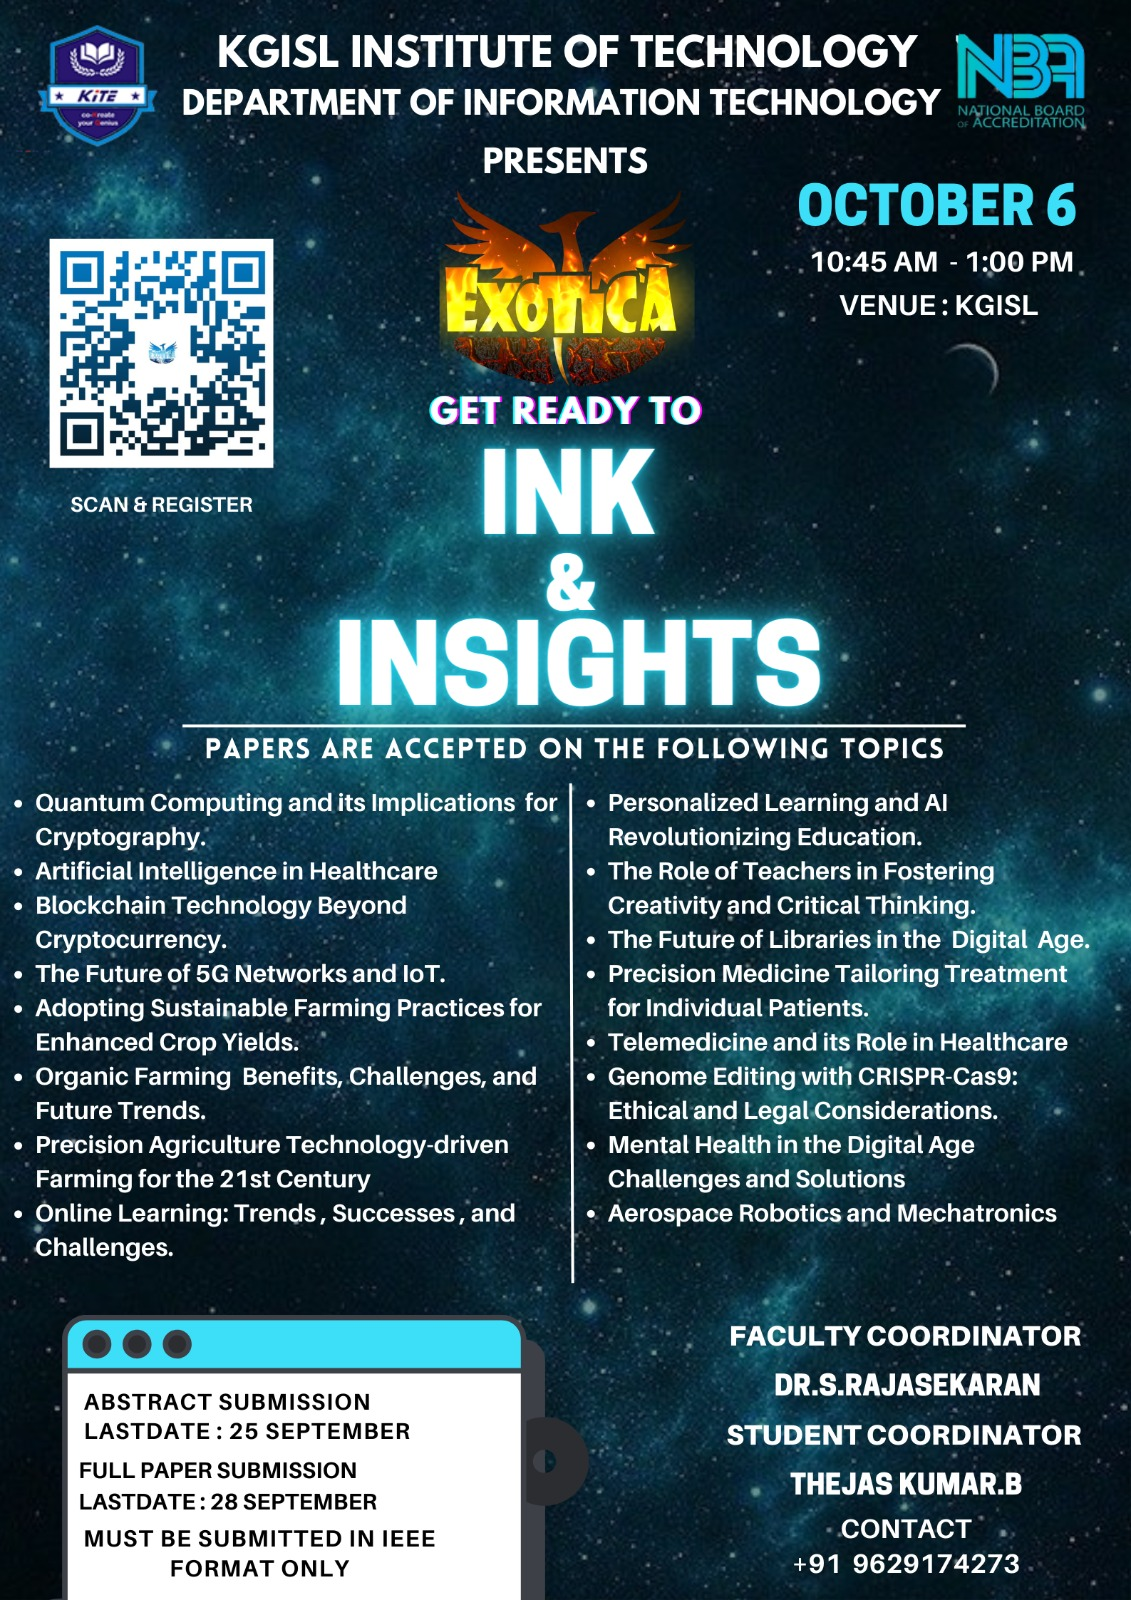
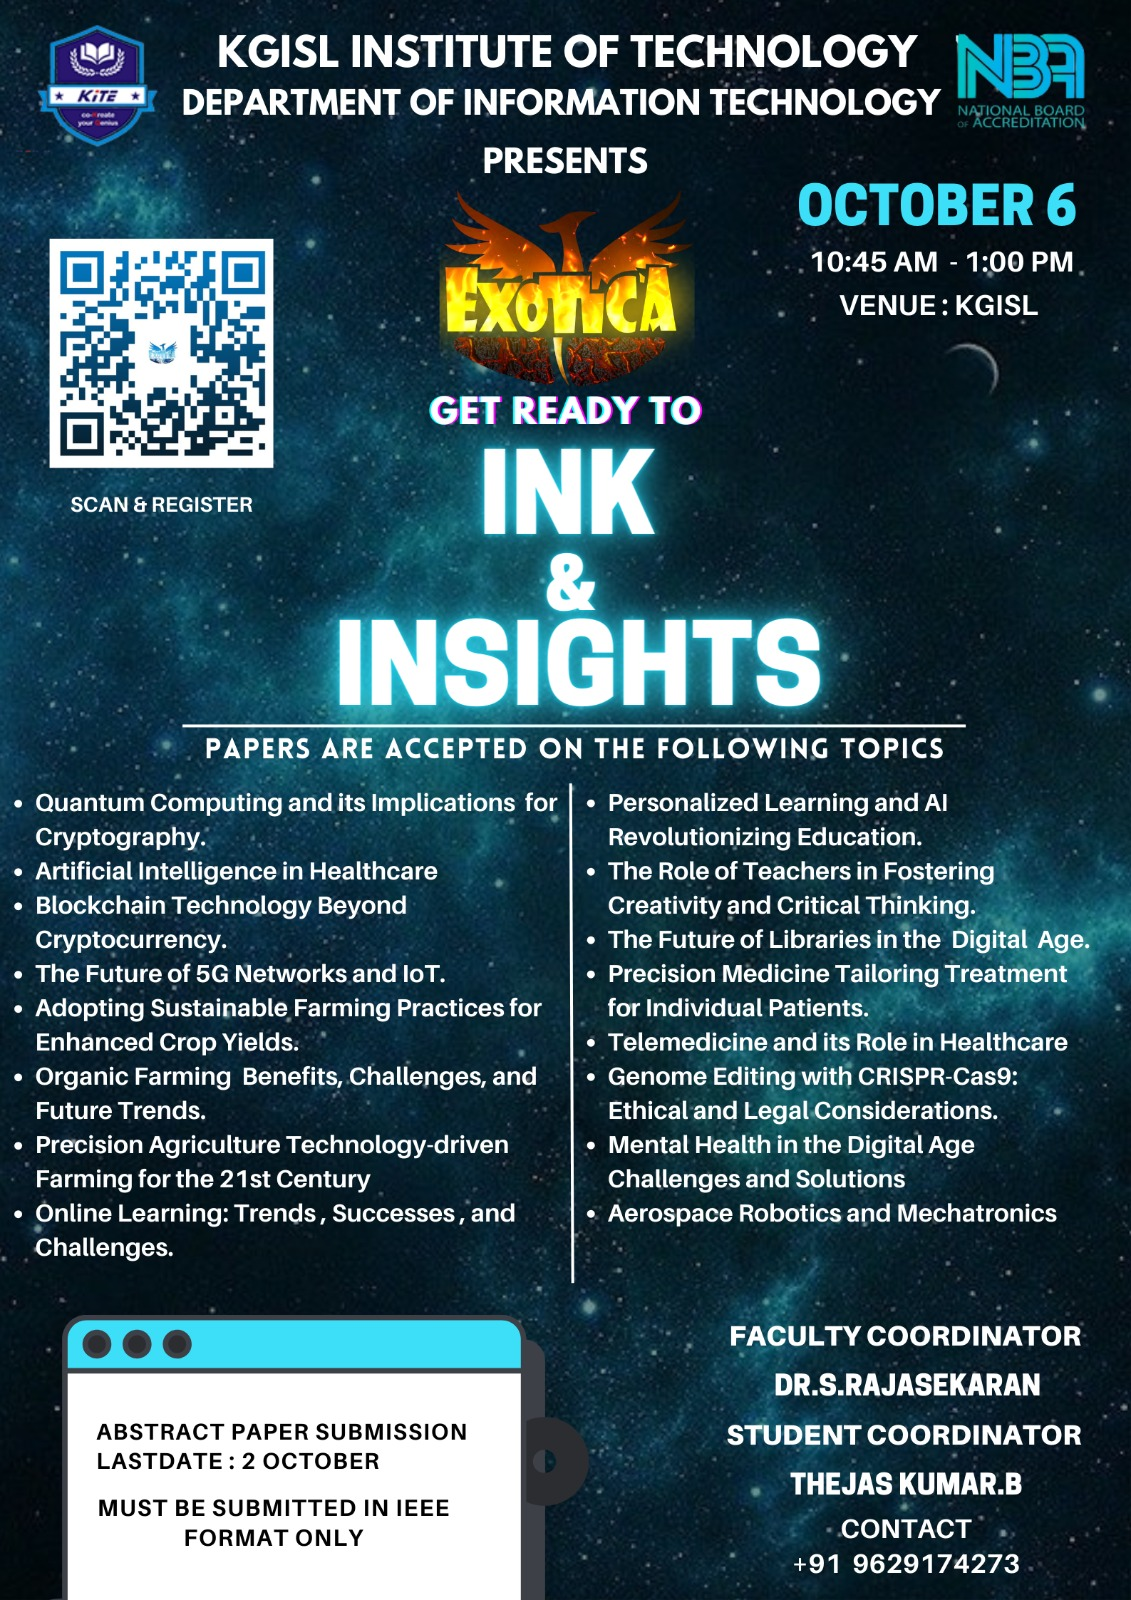
pre commit

Changed region(s): [[0.0619, 0.875, 0.4023, 1.0]]

diff --git a/index.html b/index.html
@@ -342,7 +342,6 @@ crossorigin="anonymous"
         </div>
         <div class="swiper-pagination"></div>
       </div>
-
     </div>
   </section><!-- End Testimonials Section -->
 
@@ -456,11 +455,11 @@ crossorigin="anonymous"
     </div>
   </div>
 </footer><!-- End Footer -->
-
+<!-- 
 <div id="preloader">
 <img src="assets/img/logo.png"  class="pre"/>
 </div>
-<a href="#" class="back-to-top d-flex align-items-center justify-content-center"><i class="bi bi-arrow-up-short"></i></a>
+<a href="#" class="back-to-top d-flex align-items-center justify-content-center"><i class="bi bi-arrow-up-short"></i></a> -->
 
 <!-- Vendor JS Files -->
 <script src="assets/vendor/purecounter/purecounter_vanilla.js"></script>

diff --git a/Events/Tech/PaperPresentation.html b/Events/Tech/PaperPresentation.html
@@ -91,7 +91,7 @@
                         <p style="font-size: larger;">Paper Submission</p>
                     </div>
                     <ul style="margin-top: -1cm;" >
-                    <li style="font-family: sans-serif;">Last date for abstract Submission is SEPTEMBER 21st.</li>
+                    <li style="font-family: sans-serif;">Last date for abstract Submission is OCTOBER 2nd.</li>
                     <li style="font-family: sans-serif;">Abstract must be submitted in IEEE format and paper must not exceed more than 6 pages</li>
                     <!-- Add more rules here -->
                 </ul>
